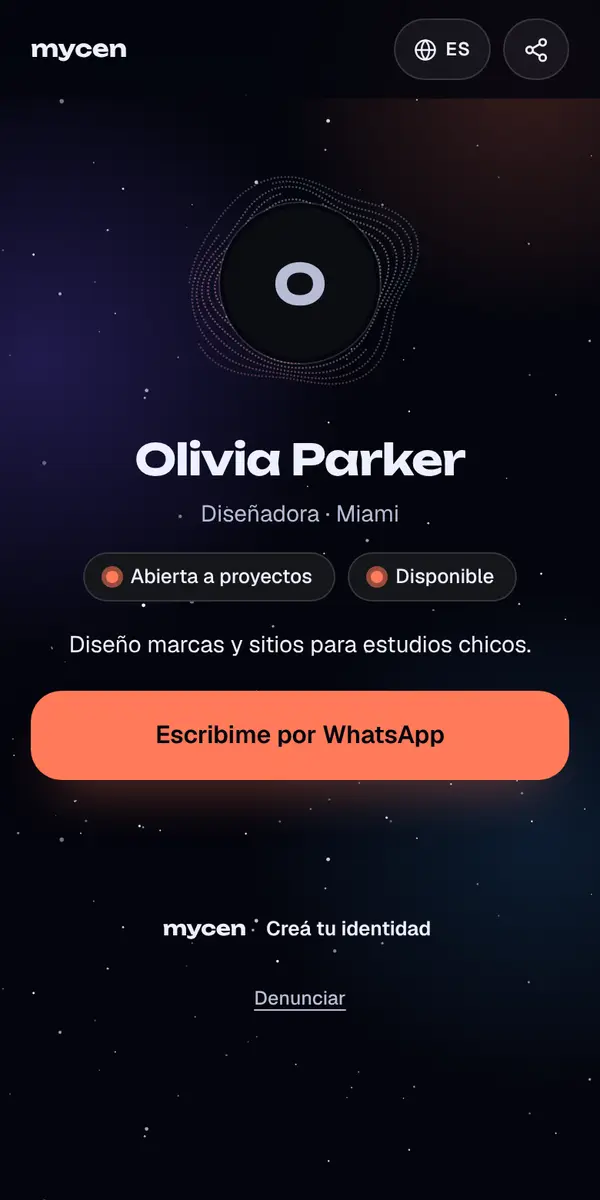
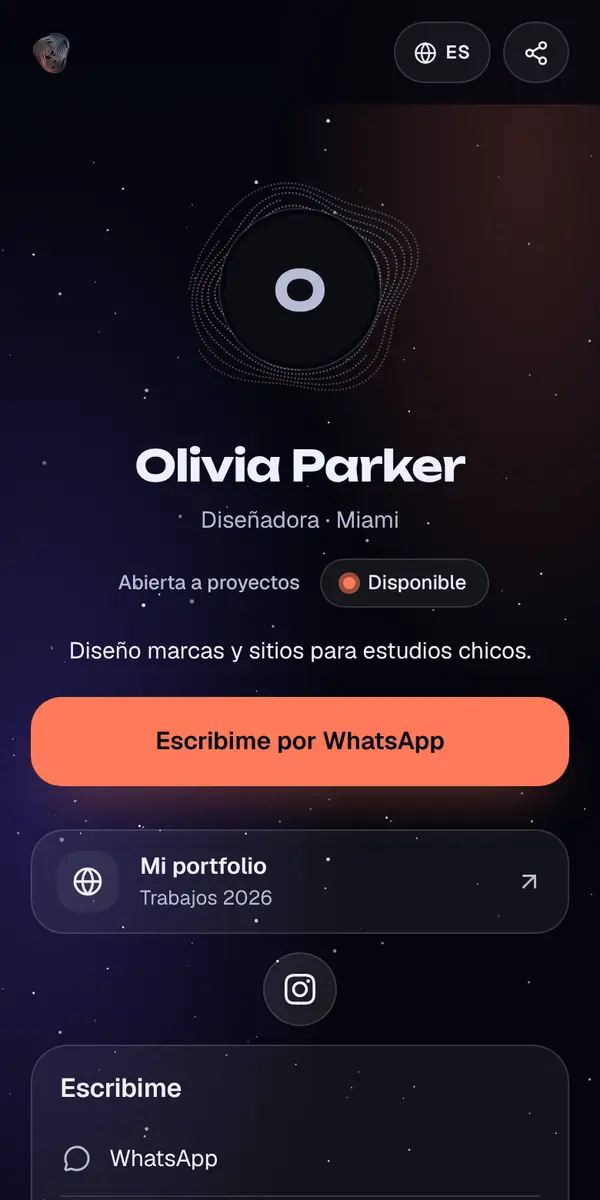
Landing: imágenes de las estructuras con el diseño nuevo y Olivia Parker con sus módulos
- Las 5 estructuras × 2 temas y Mi día, regeneradas con la huella arriba, el pie nuevo y los reproductores
- El script de capturas tomaba el servidor equivocado (el config base ahora tiene varios) y los módulos quedaban
  sin perfil (el id pasaba a p-olivia): ahora se ven

Claude-Session: https://claude.ai/code/session_01DviLyj5iiefqz38ZCV6Pon

diff --git a/scripts/landing-shots/playwright.config.ts b/scripts/landing-shots/playwright.config.ts
@@ -6,7 +6,8 @@ import base from '../../playwright.config'
 //   npx playwright test --config scripts/landing-shots/playwright.config.ts
 // Escribe public/landing/*.webp. No corre en CI: se vuelve a generar cuando cambia el diseño del perfil o de Mi día.
 const PORT = 5181
-const web = base.webServer as { env: Record<string, string> }
+// El config base tiene varios servidores (app y CAPTCHA): se usa el de la app
+const web = (Array.isArray(base.webServer) ? base.webServer[0] : base.webServer) as { env: Record<string, string> }
 export default defineConfig({
   ...base, testDir: '.', retries: 0, fullyParallel: false, workers: 1,
   // La app se sirve como "mycen.id": la credencial y su QR muestran la dirección pública real, no la de pruebas

diff --git a/scripts/landing-shots/shots.spec.ts b/scripts/landing-shots/shots.spec.ts
@@ -42,7 +42,8 @@ for (const theme of THEMES) {
   for (const layout of LAYOUTS) {
     test(`perfil ${layout} · ${theme}`, async ({ page, context }) => {
       await page.emulateMedia({ reducedMotion: 'reduce' })
-      const rows = MODULE_FIXTURES.map(f => asOlivia(structuredClone(f.row))).filter(r => KEEP.includes(r.id as string))
+      // El perfil sigue siendo la fila de prueba (p-ana): sólo cambian los textos y links de los módulos
+      const rows = MODULE_FIXTURES.map(f => ({ ...asOlivia(structuredClone(f.row)), profile_id: 'p-ana' })).filter(r => KEEP.includes(r.id as string))
       const state = createState({
         profiles: [profileRow({
           ...PERSON,
